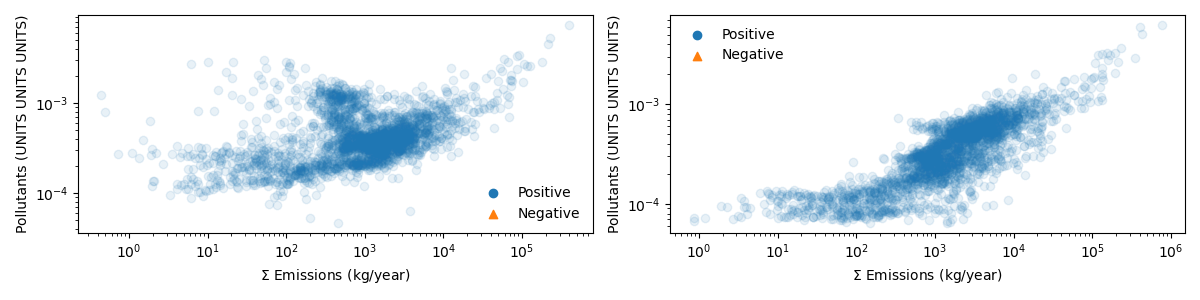
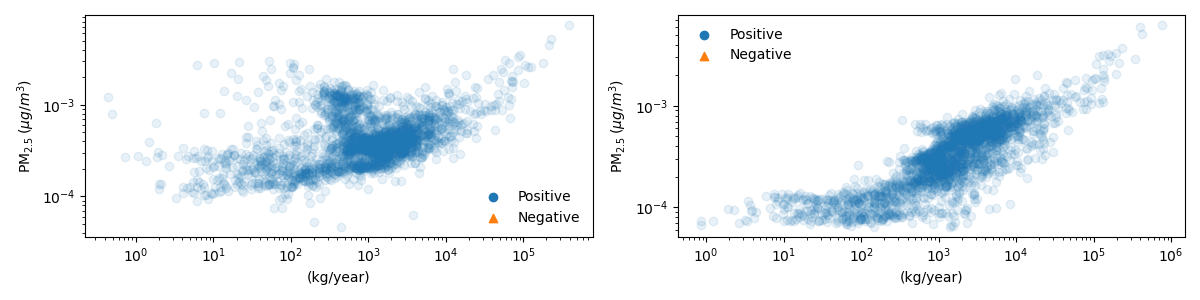
Implement units in the scatter plots, log_scale

diff --git a/division_processing/scatter_log_europe.py b/division_processing/scatter_log_europe.py
@@ -45,10 +45,10 @@ prep_europe = prep(europe_geom)
 types = {
     'Aerosol': {
         'PM25': ['nvPM'],
-        # 'AerMassNIT': ['NO2'],
-        # 'AerMassNH4': ['NO2'],
-        # 'AerMassPOA': ['nvPM', 'HC'],
-        # 'AerMassBC': ['nvPM']
+        'AerMassNIT': ['NO2'],
+        'AerMassNH4': ['NO2'],
+        'AerMassPOA': ['nvPM', 'HC'],
+        'AerMassBC': ['nvPM']
     },
     'O3': {
         'SpeciesConc_O3': ['NO2', 'HC', 'CO']
@@ -58,11 +58,13 @@ types = {
     }
 }
 
+units= [r'PM$_{2.5} \:$', r'O$_3 \:$', r'NO$_2 \:$']
+
 multipliers = [1, 44.6*48*1e6, 44.6*46.01*1e6]
 
 emissions = xr.open_dataset(os.path.join(os.path.dirname(__file__), '..', 'raw_data', 'emissions', 'AvEmMasses.nc4'))
 
-for i, value in enumerate(types.items()):
+for j, value in enumerate(types.items()):
     type_, vars = value
     for var, emittants in vars.items():
         fig, ax = plt.subplots(1, 2, figsize=[12, 3])
@@ -71,7 +73,7 @@ for i, value in enumerate(types.items()):
         emittants_lst = []
         
         for month in months:
-            pollutant = differencer(type_, month, var) * multipliers[i] # 74 by 122
+            pollutant = differencer(type_, month, var) * multipliers[j] # 74 by 122
             sum_emittant = adder(emissions, emittants) # 75 by 123
             
             sum_emittant = (sum_emittant.drop_isel({'lat':-1, 'lon': -1}))
@@ -100,8 +102,8 @@ for i, value in enumerate(types.items()):
             ax[i].scatter(positive_emittants, positive_pollutants, color='tab:blue', alpha=0.1, label= "Positive")
             ax[i].scatter(negative_emittants, negative_pollutants, color='tab:orange', alpha=0.1, label= "Negative", marker="^")
             # ax[i].set_title(f"{var}, monthly average {month}", fontsize=14)
-            ax[i].set_xlabel(r'$\Sigma$ Emissions (kg/year)')
-            ax[i].set_ylabel(r'Pollutants ($\mu g /  m^3$)')
+            ax[i].set_xlabel(r'(kg/year)')
+            ax[i].set_ylabel(units[j] + r'($\mu g /  m^3$)')
             ax[i].set_xscale('log')
             ax[i].set_yscale('log')
             legend = ax[i].legend(frameon=False)
